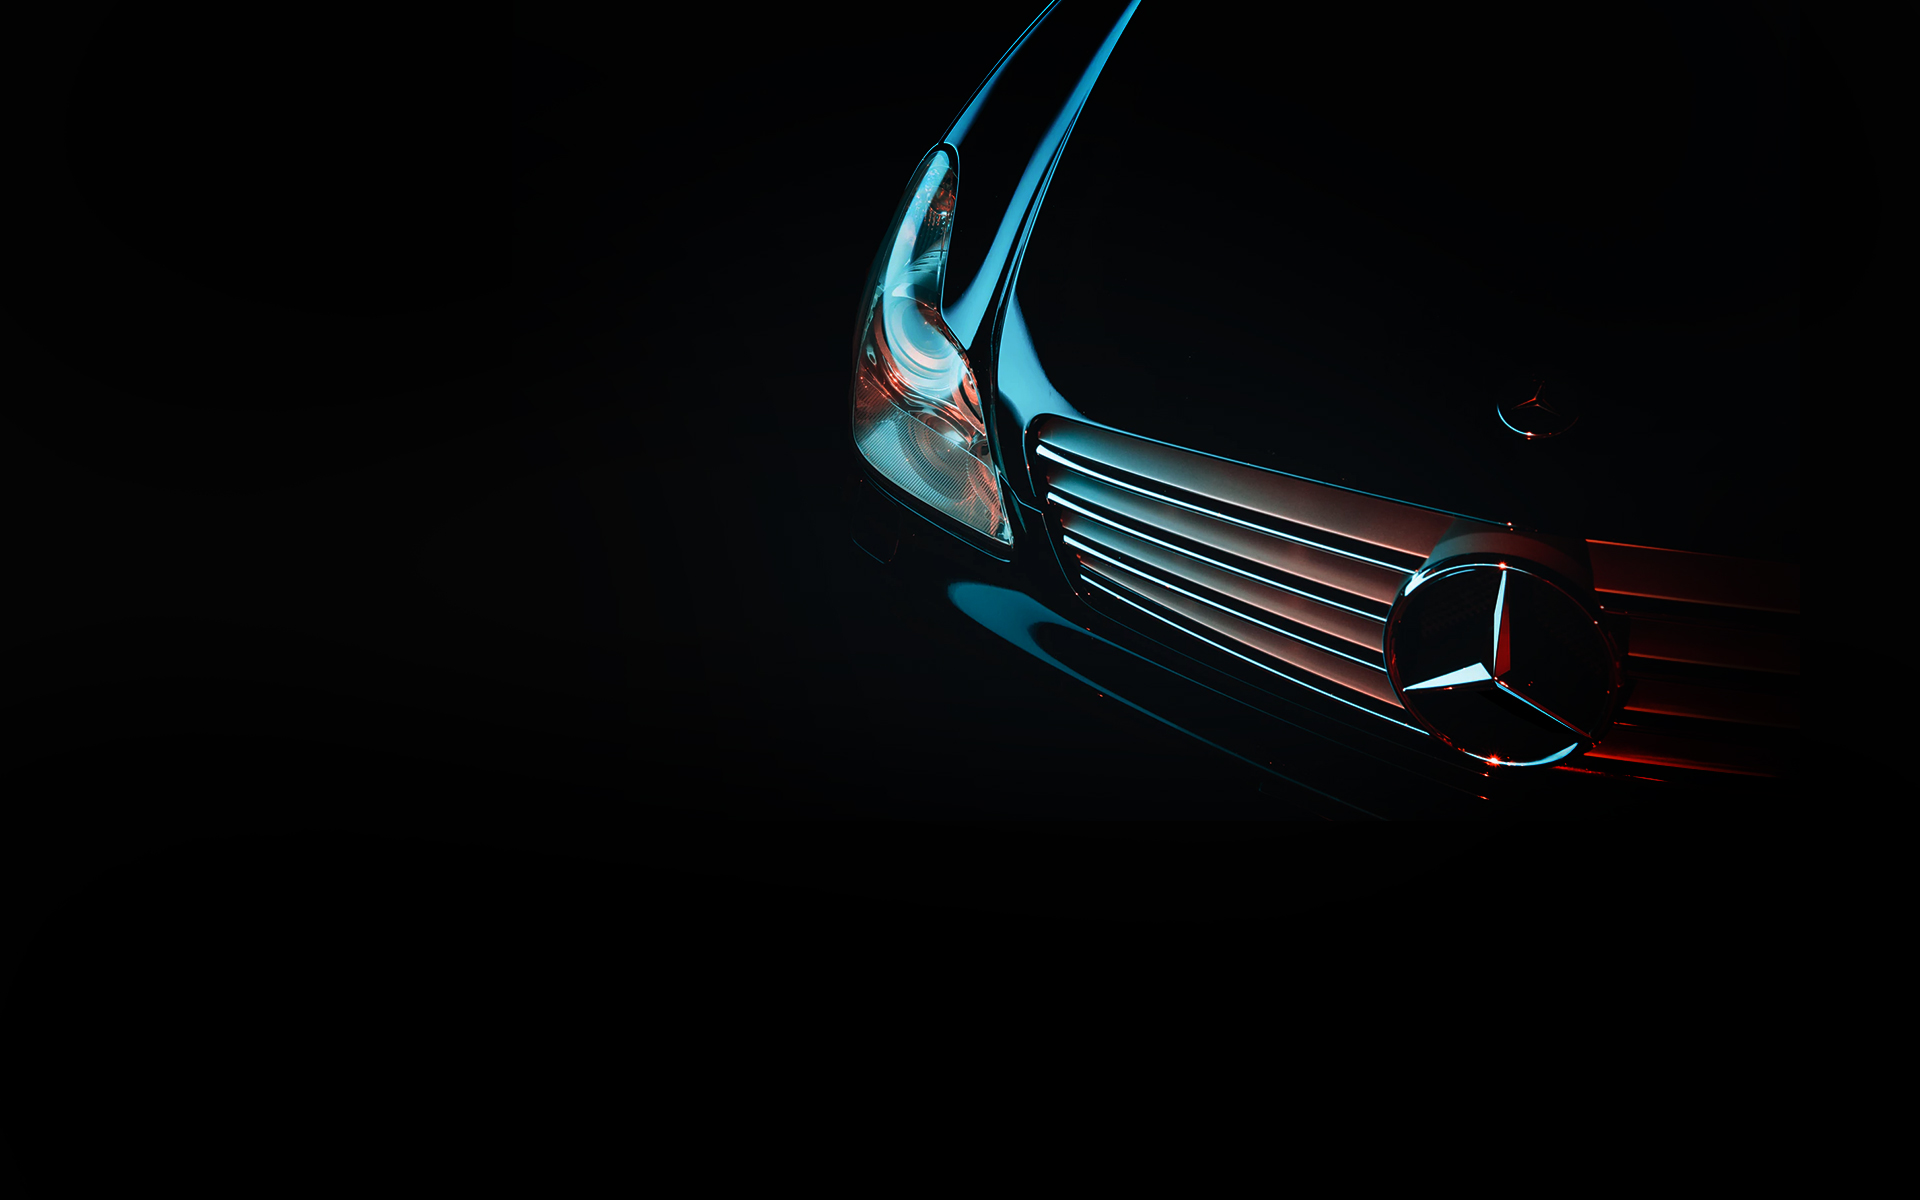
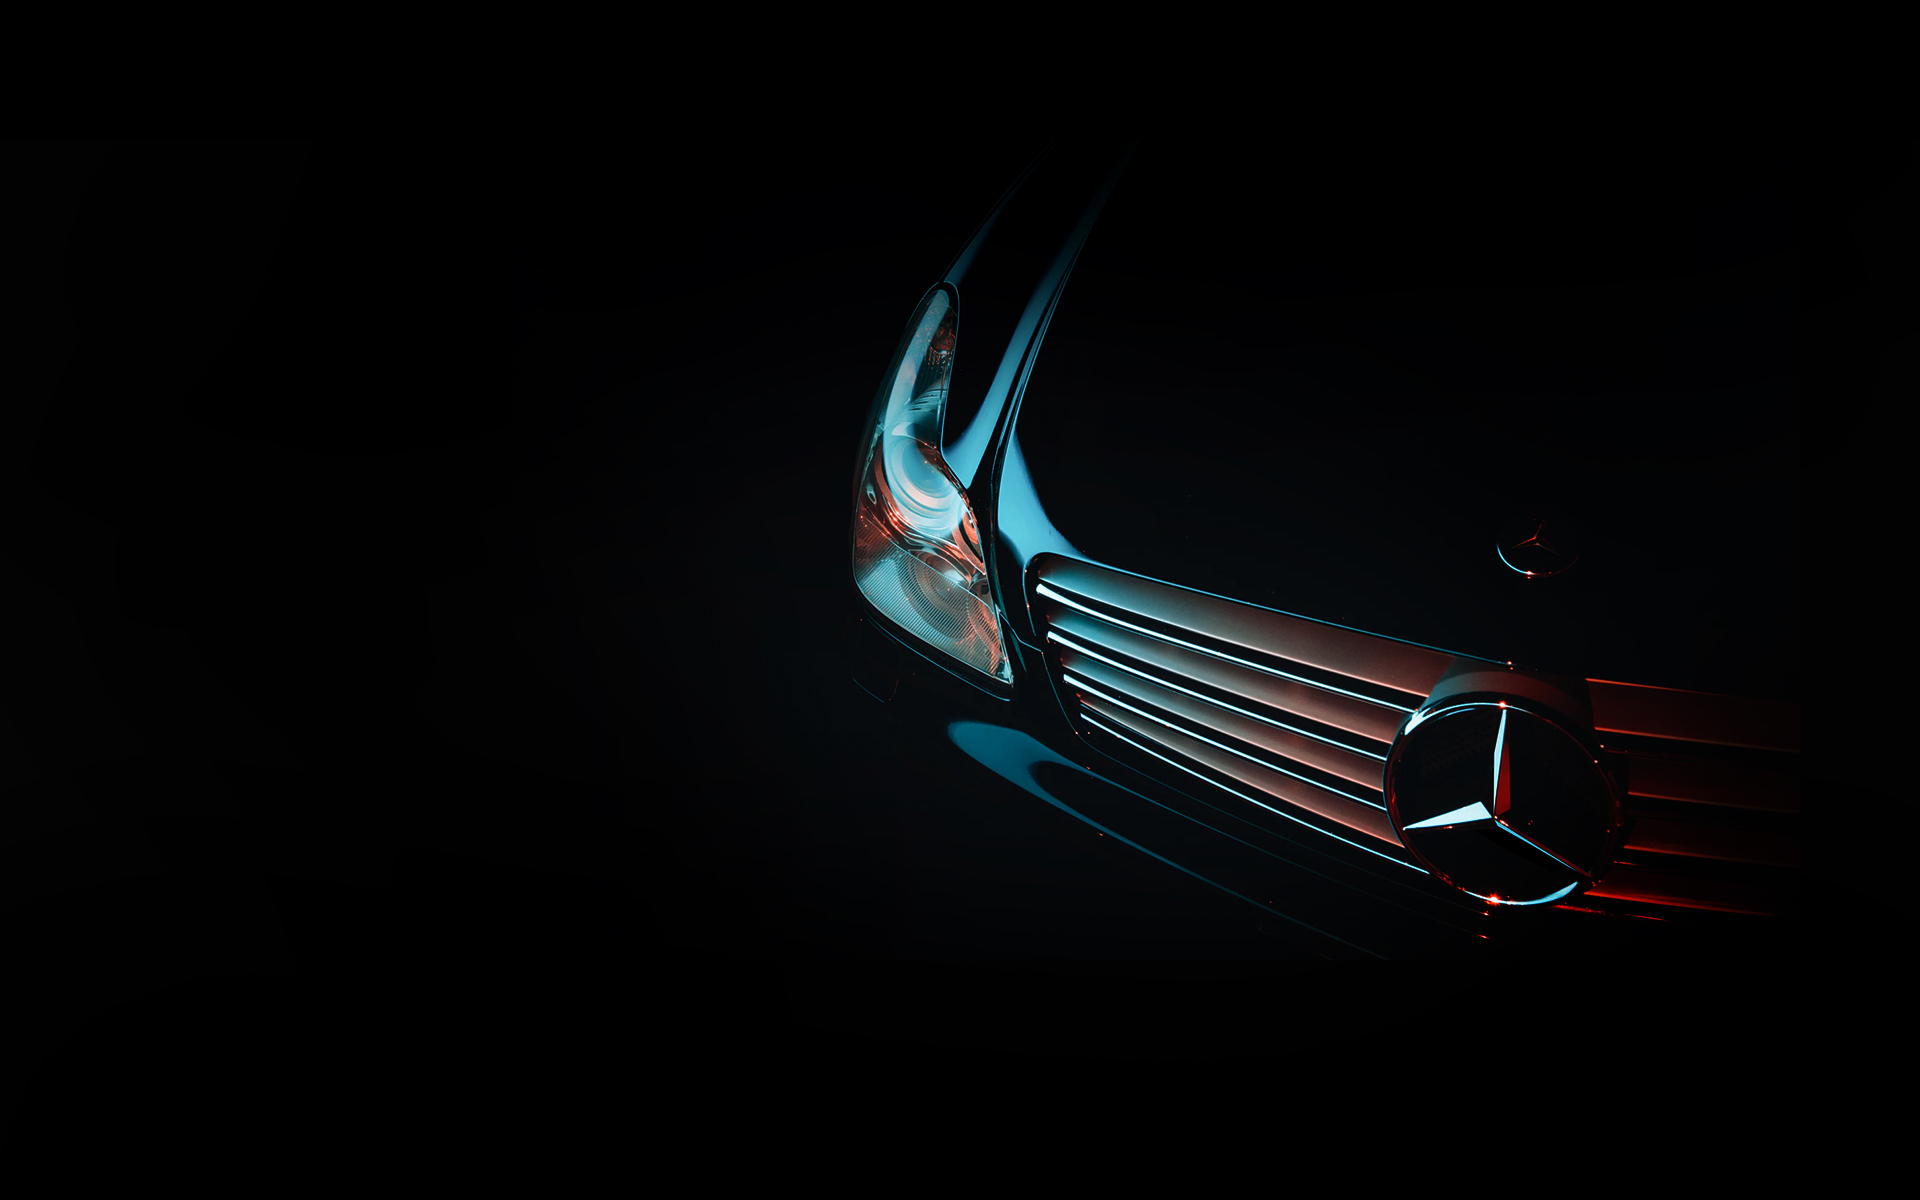
Fix slider images for responsiveness

diff --git a/client/src/components/CarSlider/CarSlider.scss b/client/src/components/CarSlider/CarSlider.scss
@@ -2,13 +2,21 @@
 @import '../../styles/Mixins';
 
 .carousel {
-  position: relative;
+  // position: relative;
   height: 100vh;
+  width: 100vw;
 }
 
 .carousel-item {
-  height: 100vh;
-  background-position: center;
+  position: relative;
+  img {
+    position: fixed;
+    top: 0;
+    bottom: 0;
+    left: 0;
+    right: 0;
+    margin: auto;
+  }
 
   @include respond(tab-landscape) {
     padding-top: 30rem;
@@ -22,8 +30,6 @@
 
 .CarSlider-container {
   display: flex;
-  align-content: center;
-  justify-content: center;
 }
 
 .CarSlider-content {
